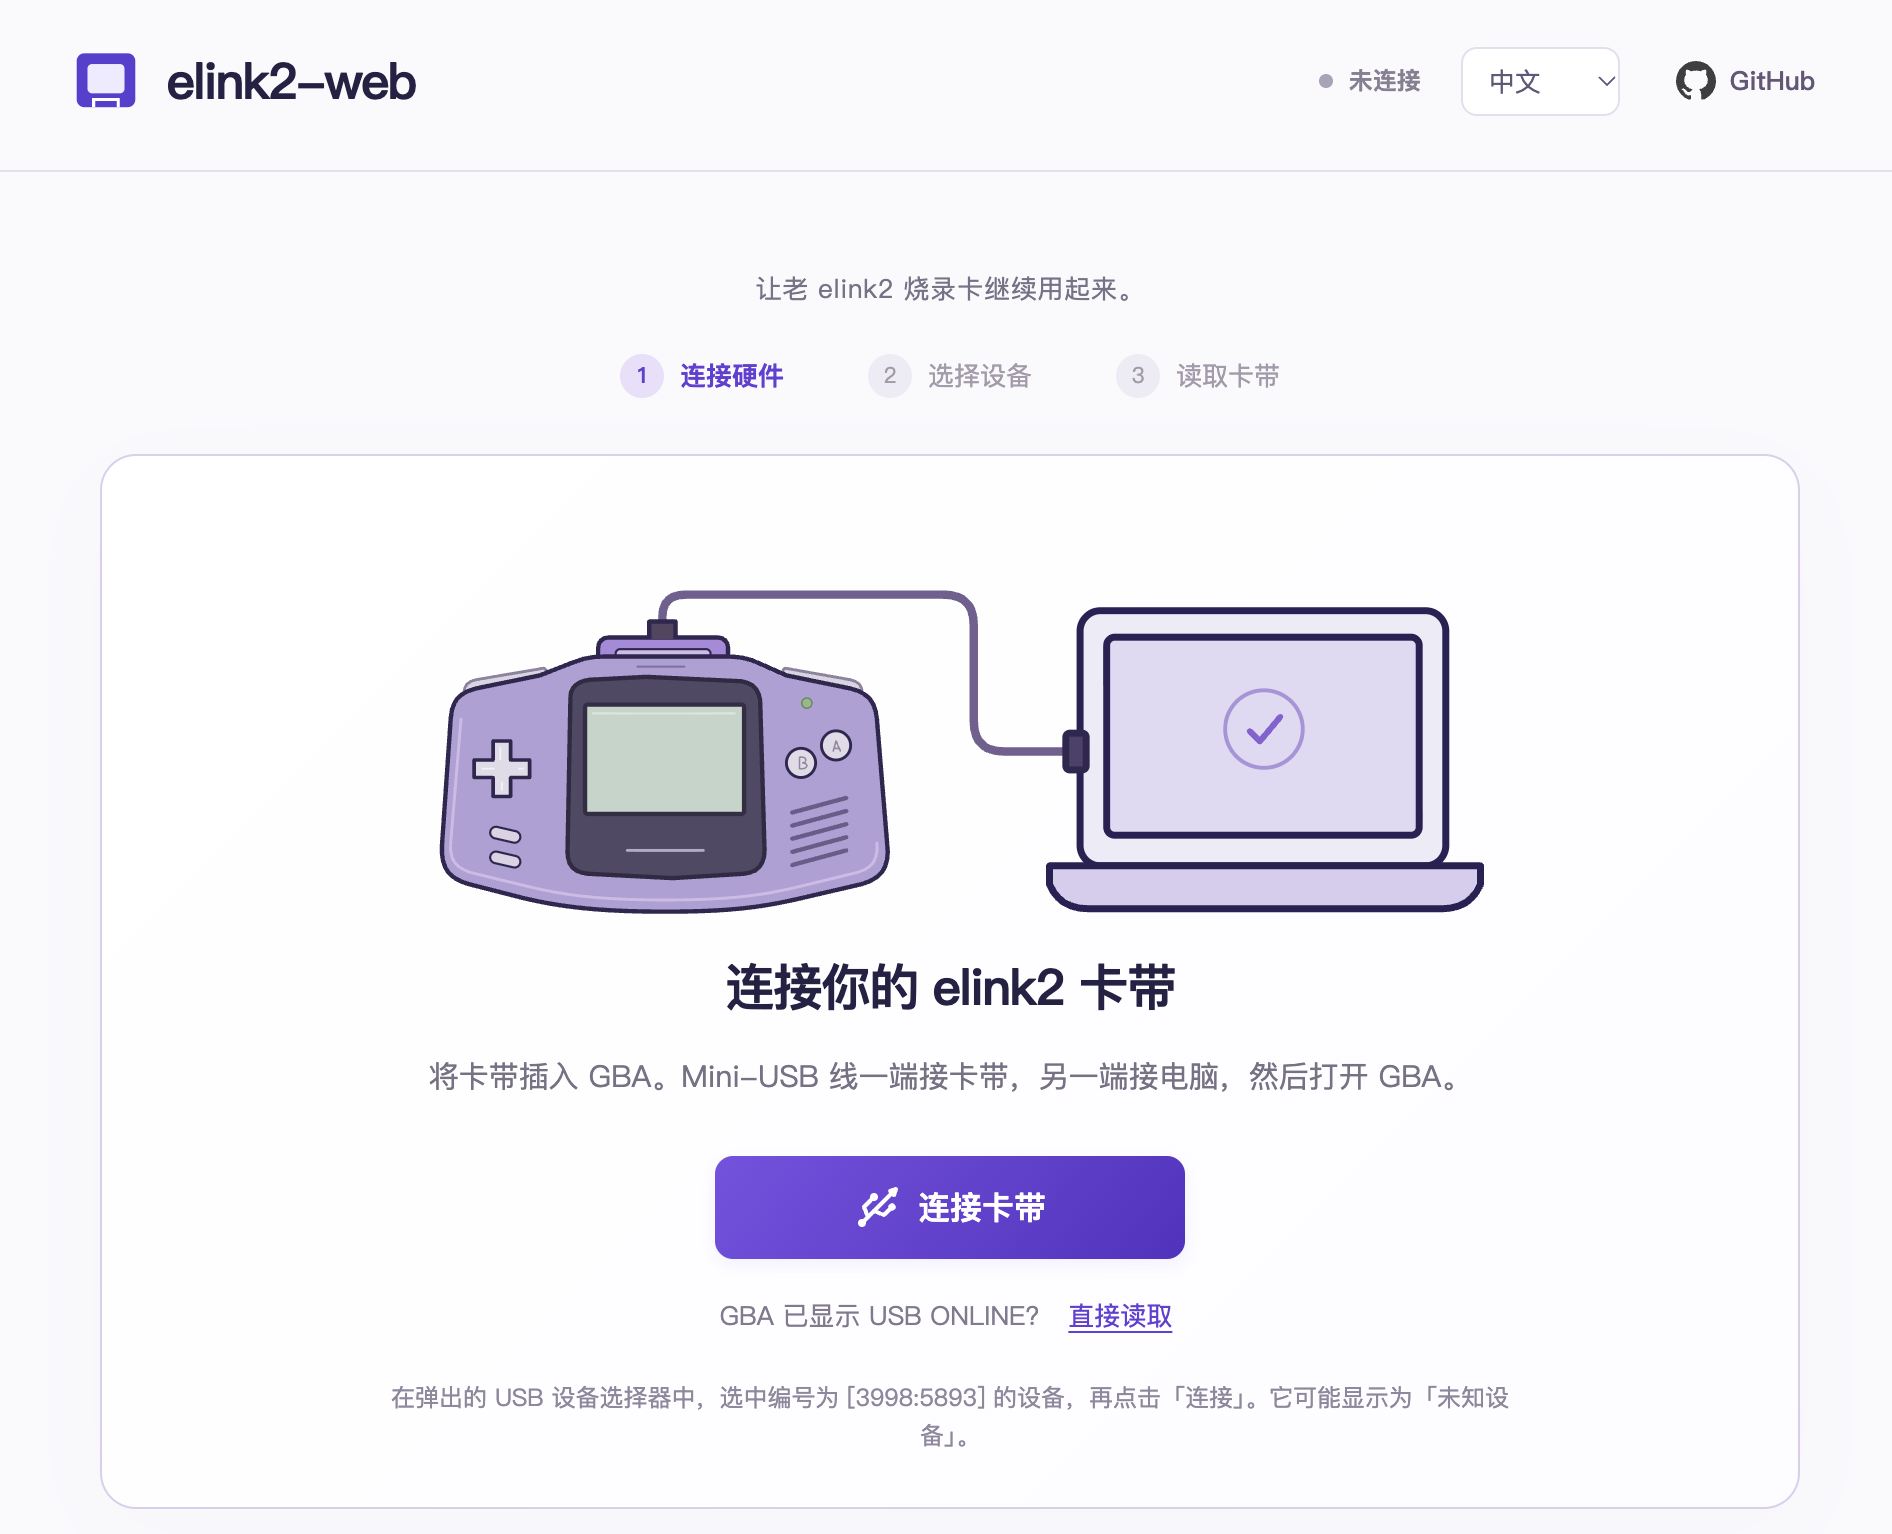
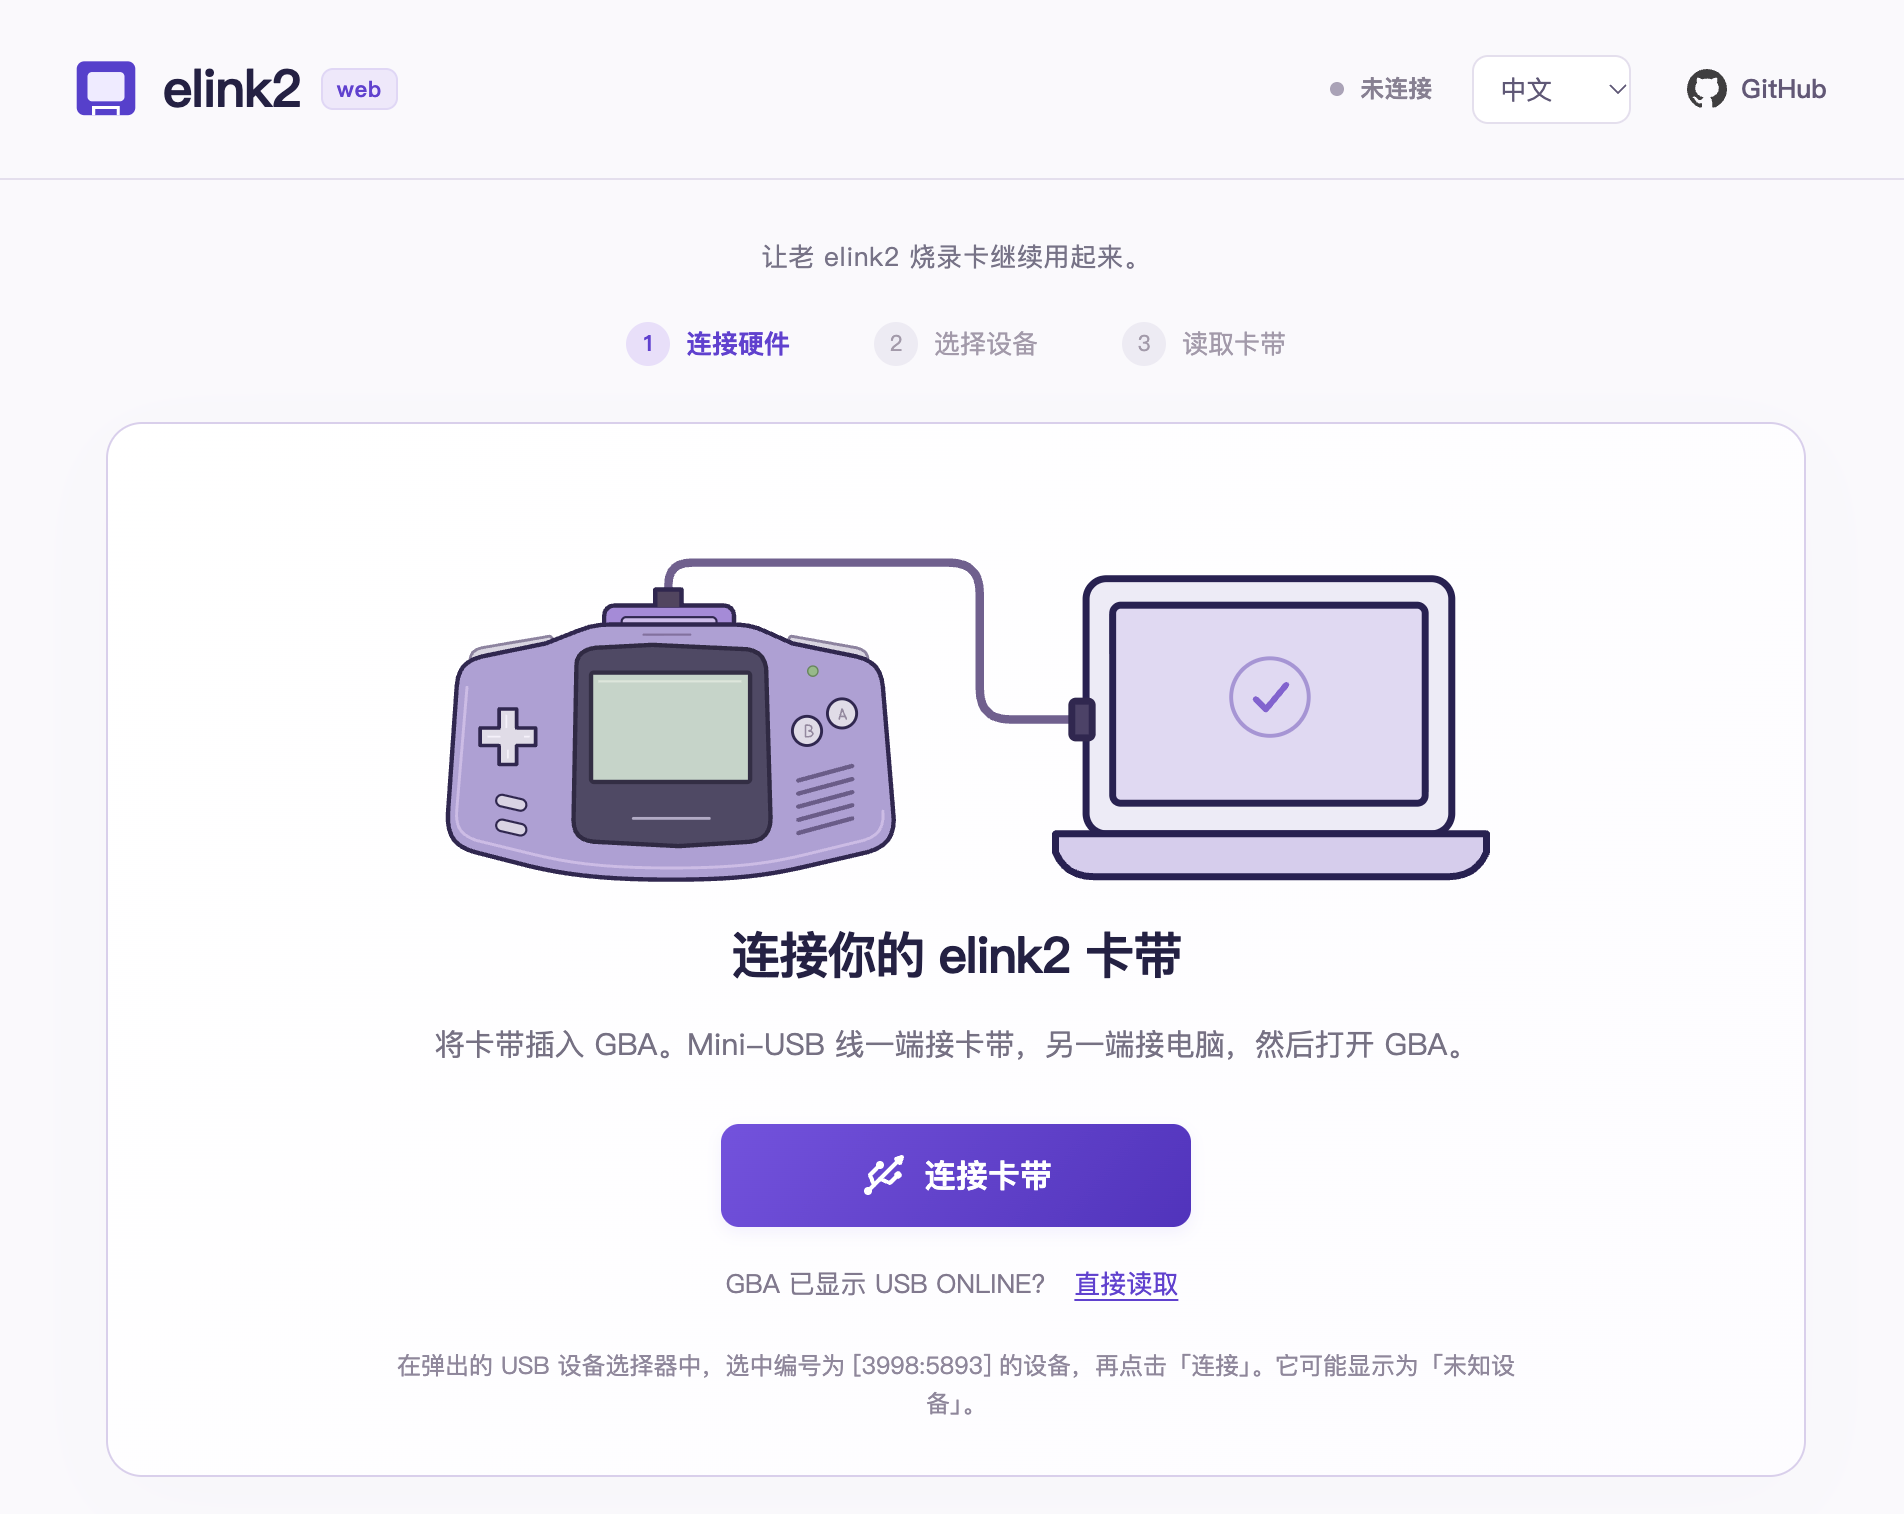
Refresh screenshots and localize English README images

diff --git a/README.en.md b/README.en.md
@@ -37,15 +37,15 @@ This tool requires WebUSB. Desktop Chrome and Microsoft Edge support the API, bu
 
 **Connect the cart**
 
-![Cart connection and USB device selection guide](assets/images/first-page.webp)
+![Cart connection and USB device selection guide](assets/images/first-page-en.webp)
 
 **Storage map and game list**
 
-![Cart storage distribution and game list](assets/images/game-list.webp)
+![Cart storage distribution and game list](assets/images/game-list-en.webp)
 
 **Write a game and customize its menu title**
 
-![Add a game, edit its menu title and preview the write](assets/images/write-game.webp)
+![Add a game, edit its menu title and preview the write](assets/images/write-game-en.webp)
 
 ### Planned features
 
